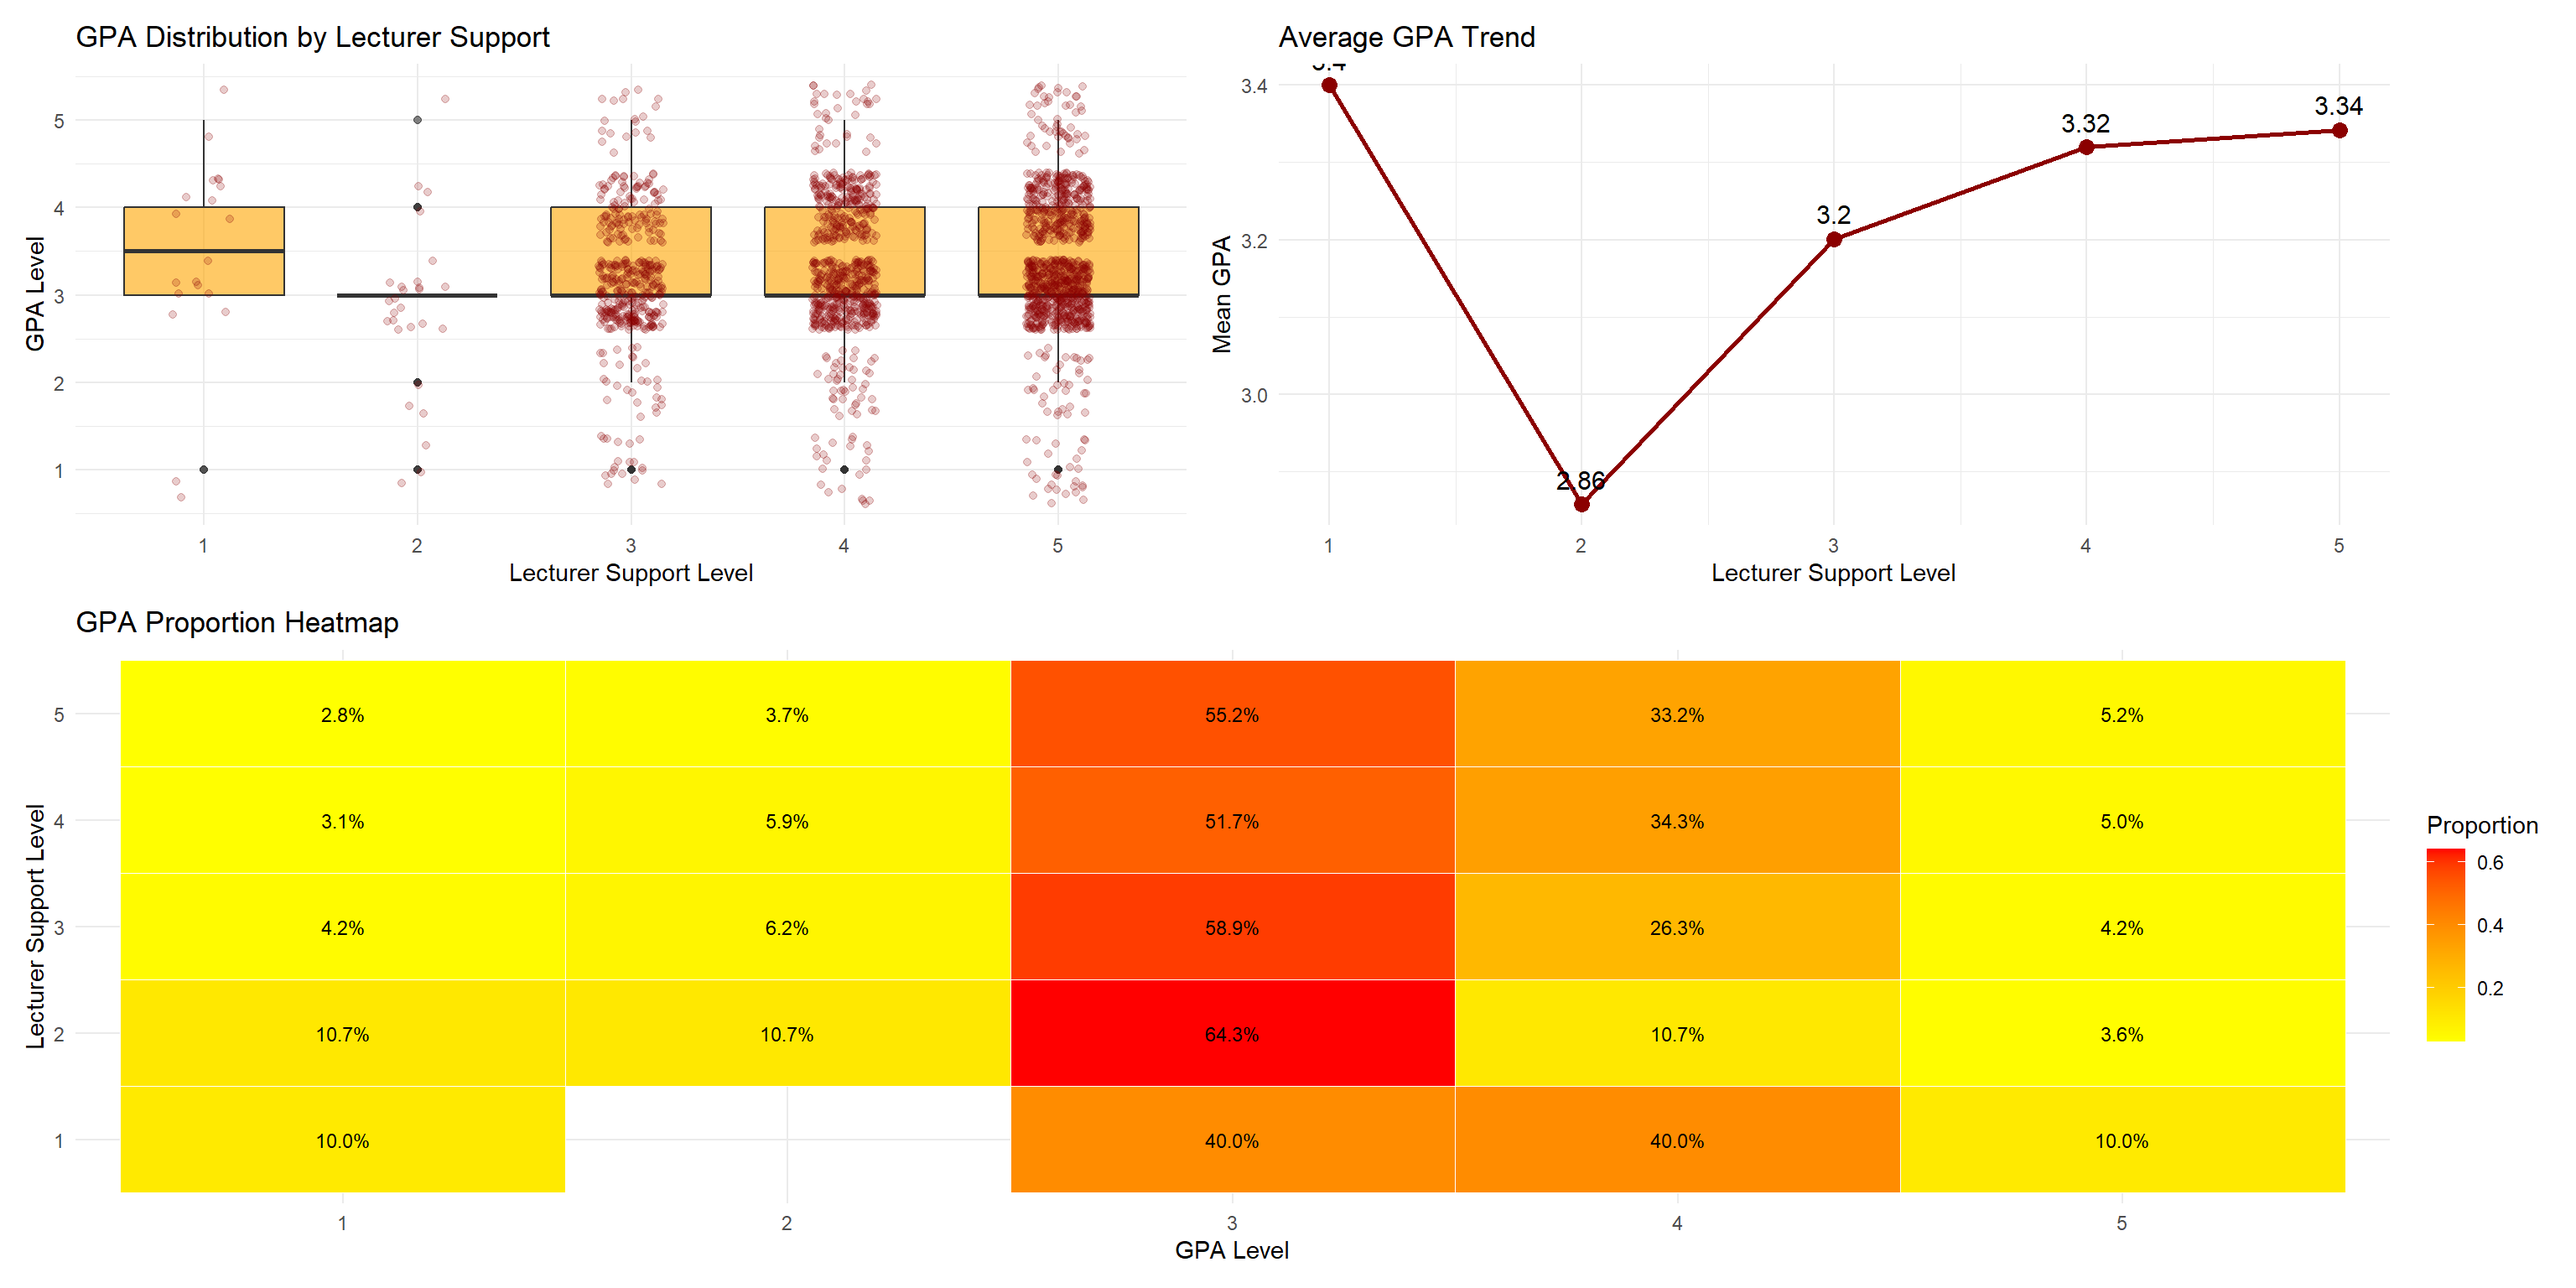
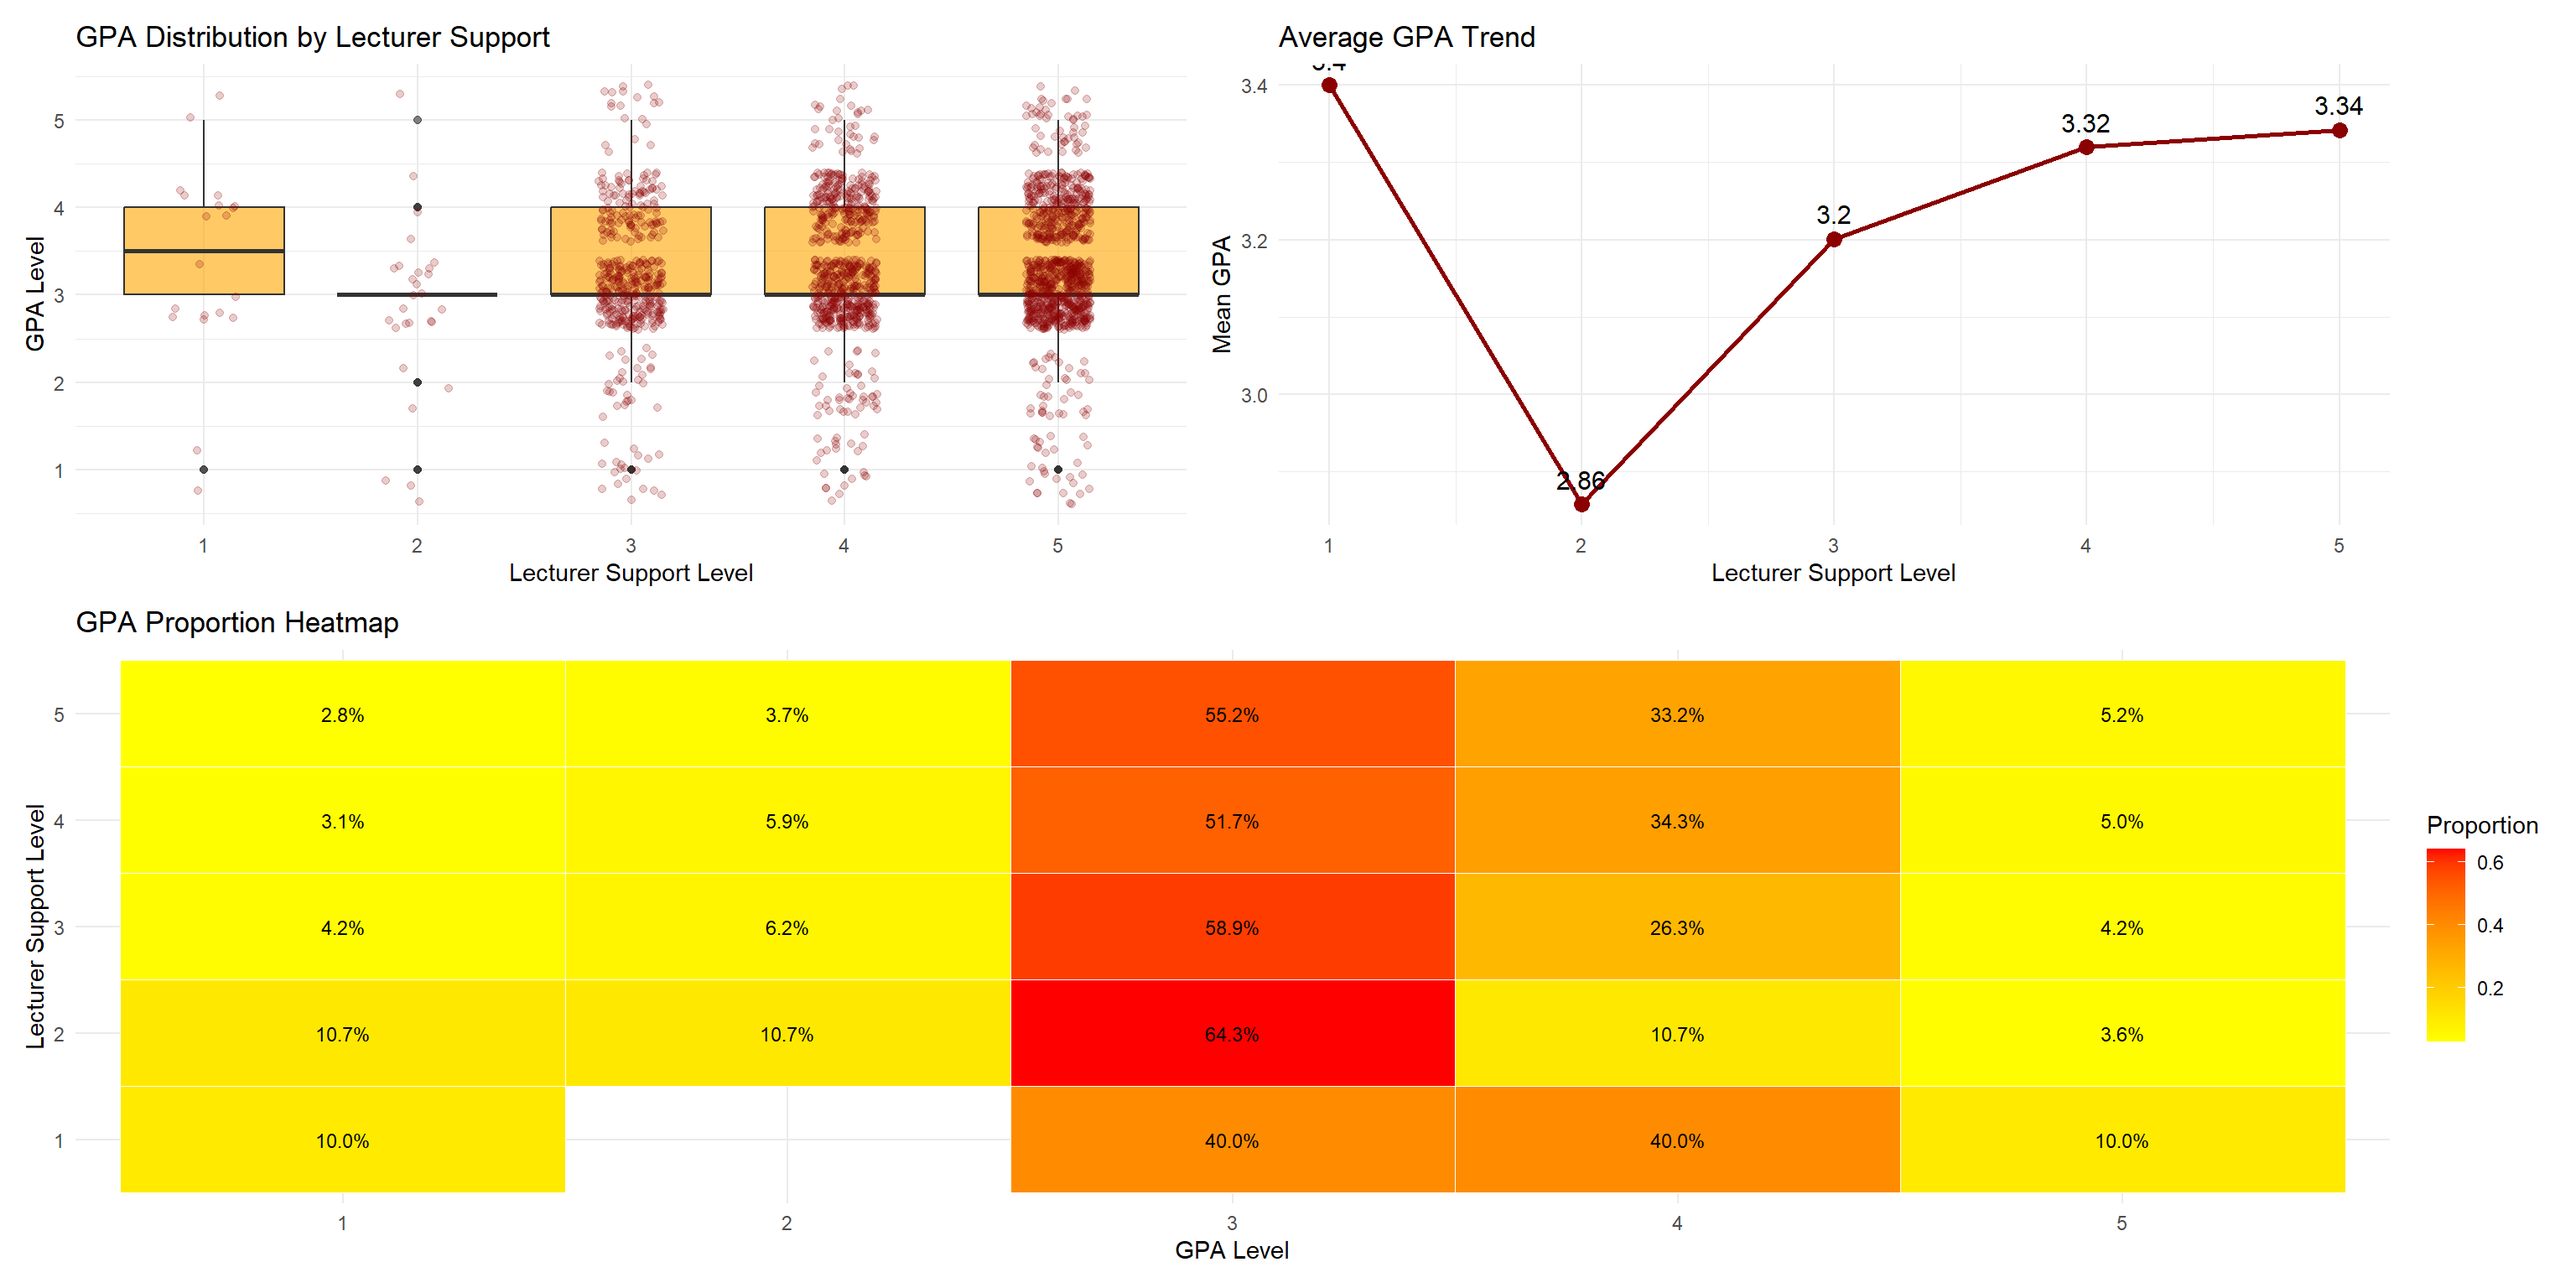
Takehome Ex Update

diff --git a/_site/Take_Home_Ex/Take_Home_Ex01/Take_Home_Ex01.html b/_site/Take_Home_Ex/Take_Home_Ex01/Take_Home_Ex01.html
@@ -128,7 +128,7 @@ pre > code.sourceCode > span > a:first-child::before { text-decoration: underlin
   </nav>
 </header>
 <!-- content -->
-<div id="quarto-content" class="quarto-container page-columns page-rows-contents page-layout-article">
+<div id="quarto-content" class="quarto-container page-columns page-rows-contents page-layout-full">
 <!-- sidebar -->
   <nav id="quarto-sidebar" class="sidebar collapse collapse-horizontal quarto-sidebar-collapse-item sidebar-navigation docked overflow-auto">
     <div class="pt-lg-2 mt-2 text-left sidebar-header">
@@ -344,7 +344,7 @@ pre > code.sourceCode > span > a:first-child::before { text-decoration: underlin
 </nav>
     </div>
 <!-- main -->
-<main class="content" id="quarto-document-content">
+<main class="content column-body" id="quarto-document-content">
 
 <header id="title-block-header" class="quarto-title-block default"><nav class="quarto-page-breadcrumbs quarto-title-breadcrumbs d-none d-lg-block" aria-label="breadcrumb"><ol class="breadcrumb"><li class="breadcrumb-item"><a href="../../Take_Home_Ex/Take_Home_Ex01/Take_Home_Ex01.html">Take Home Exercise</a></li><li class="breadcrumb-item"><a href="../../Take_Home_Ex/Take_Home_Ex01/Take_Home_Ex01.html">Take Home Exercise 1</a></li></ol></nav>
 <div class="quarto-title">
@@ -353,7 +353,7 @@ pre > code.sourceCode > span > a:first-child::before { text-decoration: underlin
 
 
 
-<div class="quarto-title-meta">
+<div class="quarto-title-meta column-body">
 
     <div>
     <div class="quarto-title-meta-heading">Author</div>
